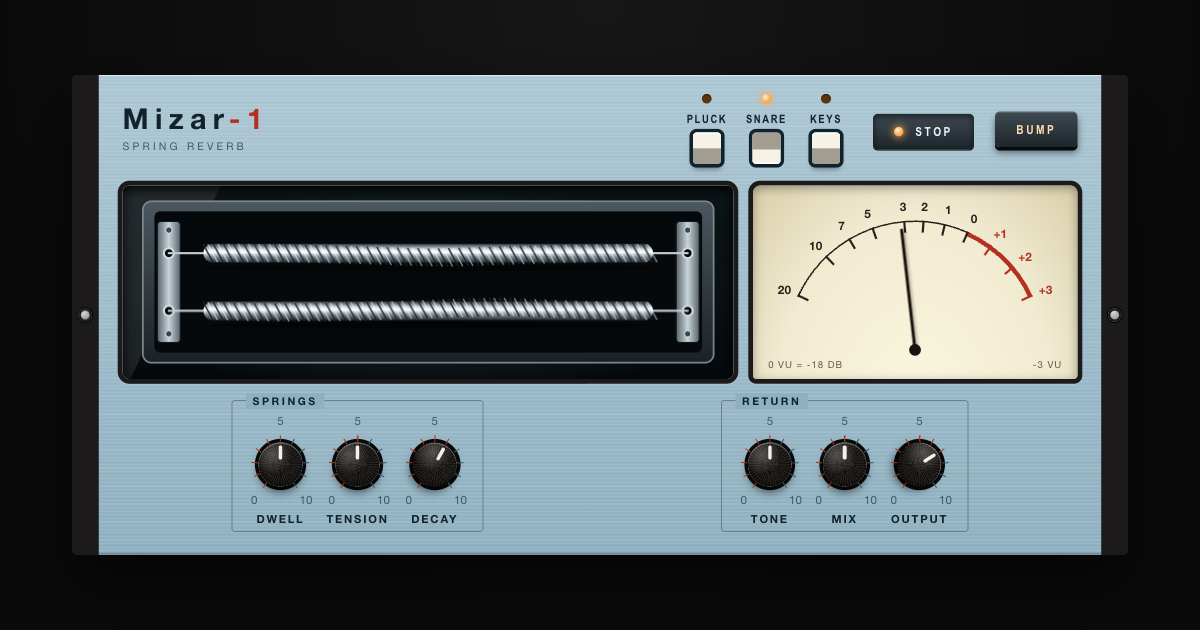
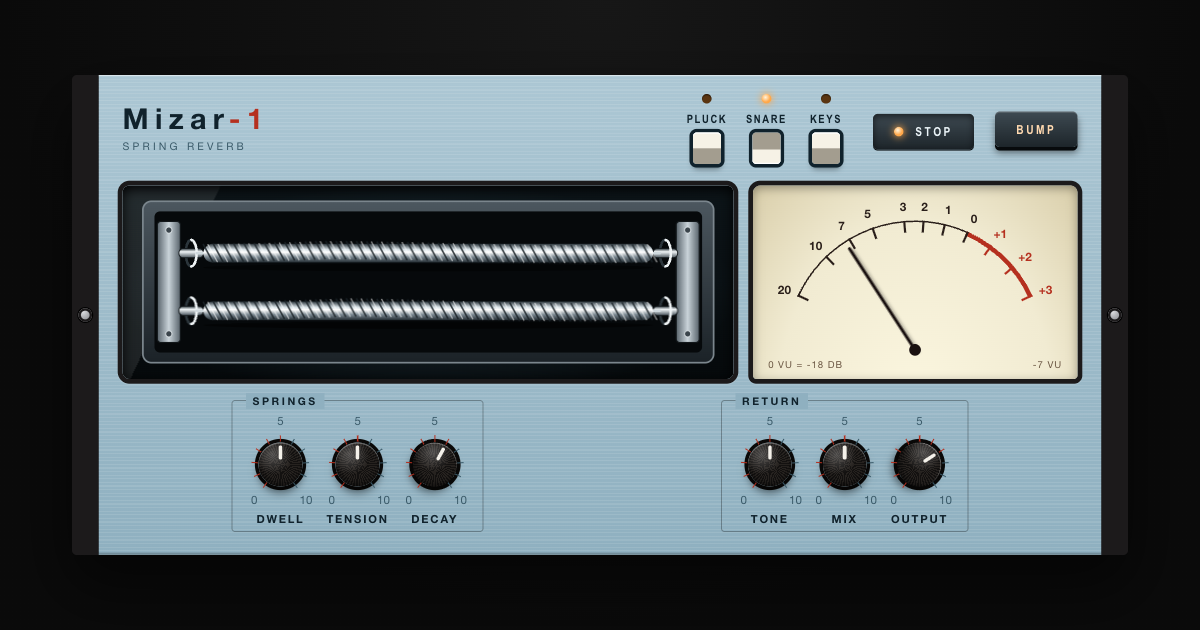
lab: the springs of Mizar-1 are made fast round a peg
Each end of a spring is a peg out of the transducer bar, with the wire of the
spring coming round it in a loop, its back half behind the peg and its front
half before it, and the tip of the peg showing past the loop. The tail eyelets
that only touched the bar are gone.

diff --git a/apps/lab/src/components/devices/mizar-1/ui/tank.tsx b/apps/lab/src/components/devices/mizar-1/ui/tank.tsx
@@ -21,6 +21,47 @@ const TURN_LIST = Array.from({ length: TURNS }, (_, index) => ({
   x: BODY_LEFT + index * PITCH,
 }));
 
+/** Where a spring's end is made fast: a peg out of the transducer bar, and the wire of the spring coming round it in a loop, its back half behind the peg and its front half before it, then on to the tube. */
+function Termination({
+  id,
+  side,
+  y,
+}: {
+  id: string;
+  side: "left" | "right";
+  y: number;
+}) {
+  const way = side === "left" ? 1 : -1;
+  const bar = side === "left" ? 28 : WIDTH - 28;
+  const centre = bar + way * 7.5;
+  const back = `M ${centre} ${y - 9.2} A 3.8 9.2 0 0 0 ${centre} ${y + 9.2}`;
+  const front = `M ${centre} ${y - 9.2} A 3.8 9.2 0 0 1 ${centre} ${y + 9.2}`;
+  const to = side === "left" ? BODY_LEFT : BODY_RIGHT;
+  return (
+    <g>
+      <path className="mizar-loop-back" d={back} fill="none" />
+      <rect
+        fill={`url(#${id}-peg)`}
+        height={6.4}
+        rx={3}
+        stroke="#12171a"
+        strokeWidth={0.6}
+        width={17}
+        x={side === "left" ? bar - 1 : bar - 16}
+        y={y - 3.2}
+      />
+      <path className="mizar-loop-front" d={front} fill="none" />
+      <line
+        className="mizar-tail"
+        x1={centre + way * 3.8}
+        x2={to}
+        y1={y}
+        y2={y}
+      />
+    </g>
+  );
+}
+
 /** The decibels from which the springs begin to shake, and from which they shake as hard as they do. */
 const FLOOR_DB = -55;
 const FULL_DB = -15;
@@ -83,6 +124,11 @@ export function Tank({
             <stop offset="0.5" stopColor="#c9d3d9" />
             <stop offset="1" stopColor="#58636b" />
           </linearGradient>
+          <linearGradient id={`${id}-peg`} x1="0" x2="0" y1="0" y2="1">
+            <stop offset="0" stopColor="#2c363c" />
+            <stop offset="0.35" stopColor="#f0f5f7" />
+            <stop offset="1" stopColor="#4a555d" />
+          </linearGradient>
           <linearGradient id={`${id}-pan`} x1="0" x2="0" y1="0" y2="1">
             <stop offset="0" stopColor="#4c575f" />
             <stop offset="1" stopColor="#1b2227" />
@@ -141,27 +187,8 @@ export function Tank({
               rx={(BODY_RIGHT - BODY_LEFT) / 2}
               ry={2.6}
             />
-            <circle className="mizar-eyelet" cx={20} cy={spring.y} r={3.4} />
-            <circle
-              className="mizar-eyelet"
-              cx={WIDTH - 20}
-              cy={spring.y}
-              r={3.4}
-            />
-            <line
-              className="mizar-tail"
-              x1={20}
-              x2={BODY_LEFT}
-              y1={spring.y}
-              y2={spring.y}
-            />
-            <line
-              className="mizar-tail"
-              x1={BODY_RIGHT}
-              x2={WIDTH - 20}
-              y1={spring.y}
-              y2={spring.y}
-            />
+            <Termination id={id} side="left" y={spring.y} />
+            <Termination id={id} side="right" y={spring.y} />
             <rect
               fill={`url(#${id}-tube)`}
               height={TUBE * 2}

diff --git a/apps/lab/src/components/devices/mizar-1/index.css b/apps/lab/src/components/devices/mizar-1/index.css
@@ -278,15 +278,22 @@
   stroke-width: 0.5;
 }
 
-.mizar-eyelet {
-  fill: #05080a;
-  stroke: #d3dce1;
-  stroke-width: 1.4;
+.mizar-tail {
+  stroke: #cfd8dd;
+  stroke-width: 1.7;
+  stroke-linecap: round;
 }
 
-.mizar-tail {
-  stroke: #c3ccd2;
-  stroke-width: 1.5;
+/* The wire's loop round the peg: the half behind it dark, the half before it bright */
+.mizar-loop-back {
+  stroke: #2b353b;
+  stroke-width: 1.8;
+  stroke-linecap: round;
+}
+
+.mizar-loop-front {
+  stroke: #eef3f5;
+  stroke-width: 1.8;
   stroke-linecap: round;
 }
 
